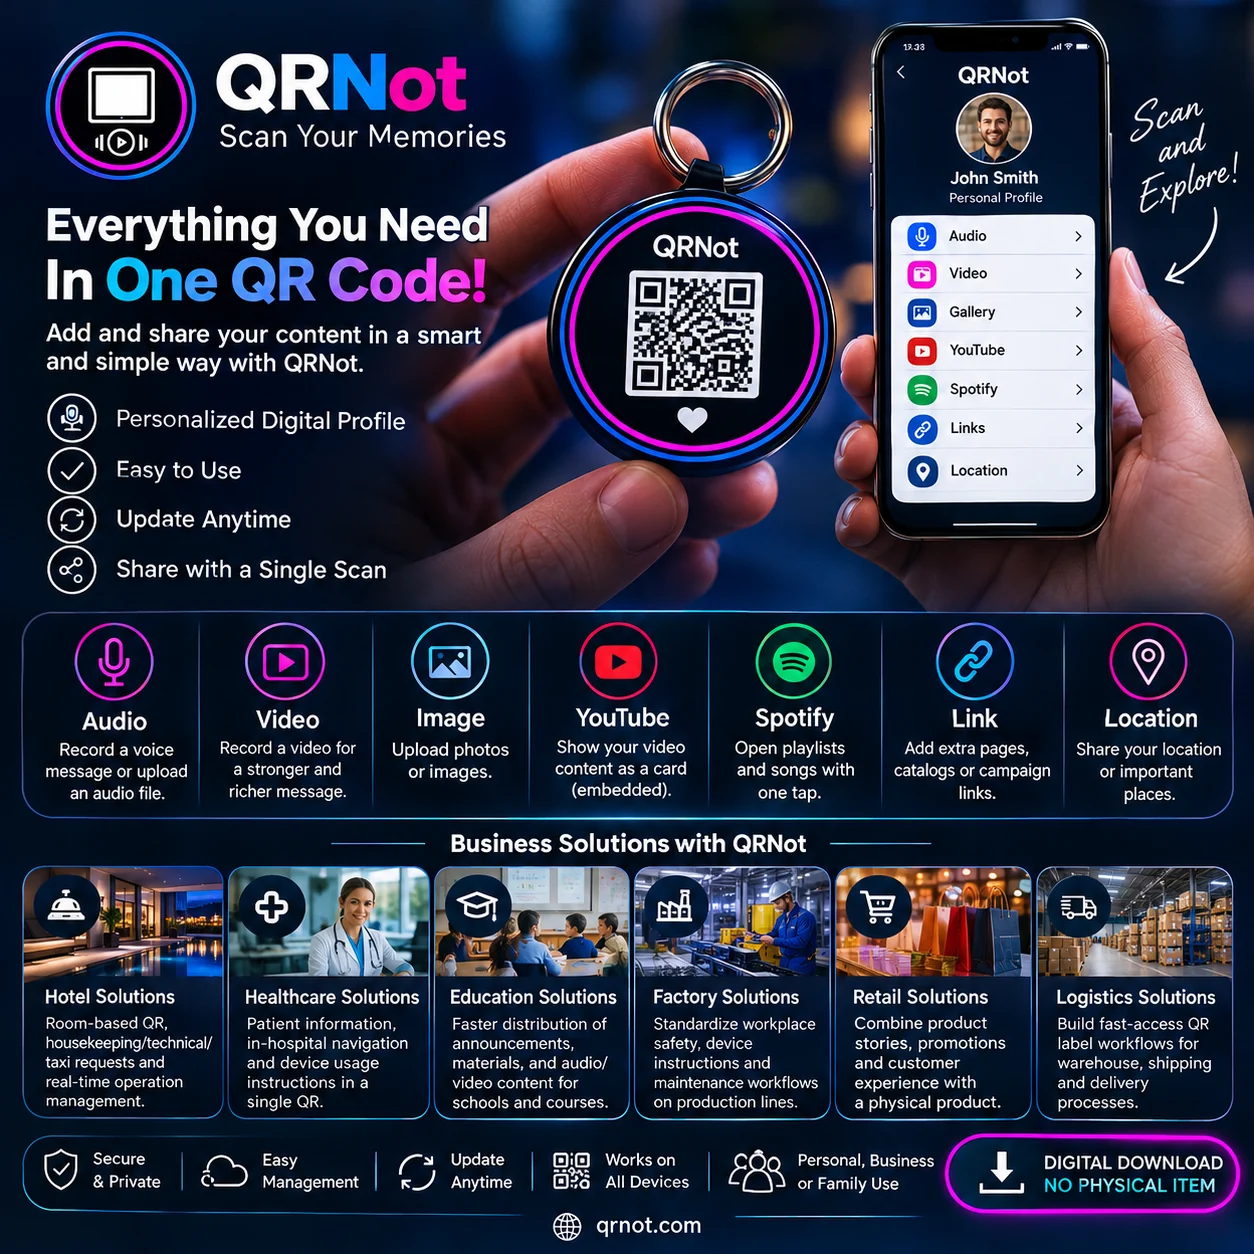
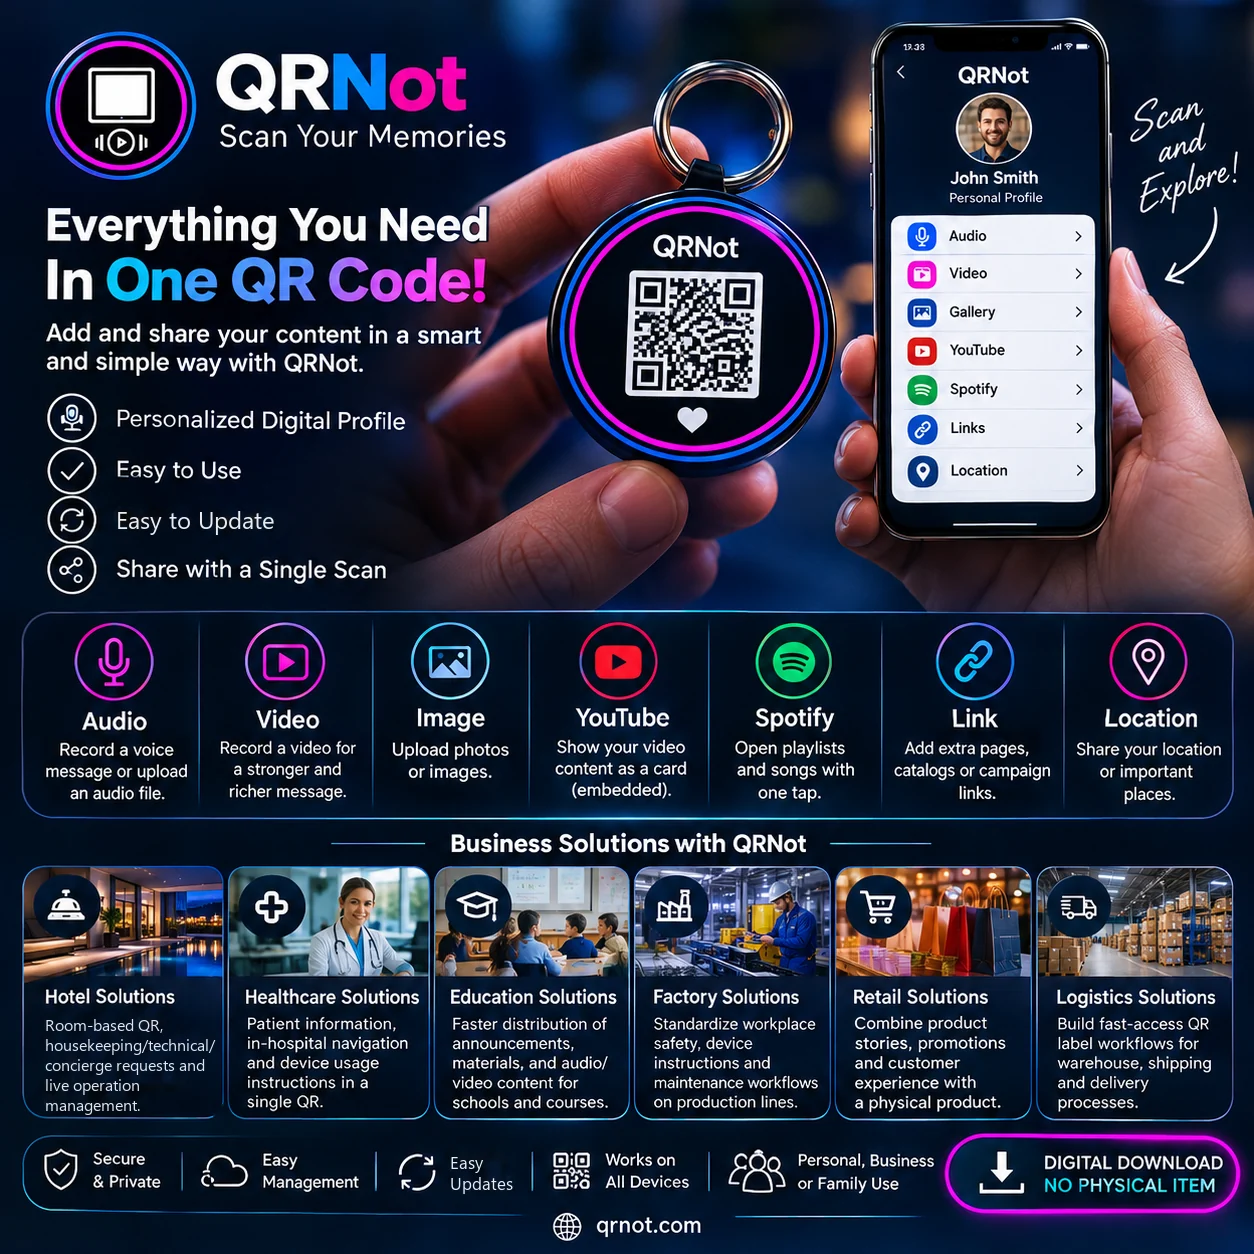
Katalog gorsellerindeki iddialar sistemle uyumlu hale getirildi
- Sinirsiz kayit / omur boyu / suya dayanikli / kan grubu / canli konum / taksi / update anytime ifadeleri duzeltildi
- fix_claims.py: orijinallerden tekrar uretilebilir duzeltme (inpaint + yeni metin)

Changed region(s): [[0.0311, 0.8086, 0.1866, 0.9019], [0.0933, 0.4043, 0.2488, 0.4354], [0.3421, 0.9019, 0.4043, 0.9641]]

diff --git a/deliverables/katalog-gorselleri/fix_claims.py b/deliverables/katalog-gorselleri/fix_claims.py
@@ -1,0 +1,206 @@
+"""Katalog görsellerindeki iddiaları QRNot'un gerçek özelliklerine göre düzeltir.
+
+Kullanım:  python deliverables/katalog-gorselleri/fix_claims.py [dosya-adı-parçası]
+Girdi:     deliverables/katalog-gorselleri/orijinal/*
+Çıktı:     public/katalog/*.webp  (sitedeki katalog bu dosyaları kullanır)
+           deliverables/katalog-gorselleri/duzeltilmis/*.png  (kontrol için tam kalite)
+
+Yöntem: düzeltilecek yazının bulunduğu kutuda parlak (yazı) pikselleri maskelenir, OpenCV inpaint ile arka plan
+çevresinden doldurulur, ardından doğru metin benzer yazı tipiyle aynı yere yazılır.
+"""
+
+import os
+import sys
+
+import cv2
+import numpy as np
+from PIL import Image, ImageDraw, ImageFont
+
+HERE = os.path.dirname(os.path.abspath(__file__))
+ROOT = os.path.abspath(os.path.join(HERE, '..', '..'))
+SRC = os.path.join(HERE, 'orijinal')
+OUT_PNG = os.path.join(HERE, 'duzeltilmis')
+OUT_WEB = os.path.join(ROOT, 'public', 'katalog')
+
+FONT_DIR = 'C:/Windows/Fonts'
+FONTS = {
+    'regular': os.path.join(FONT_DIR, 'segoeui.ttf'),
+    'semibold': os.path.join(FONT_DIR, 'seguisb.ttf'),
+    'bold': os.path.join(FONT_DIR, 'segoeuib.ttf'),
+    # Dar, kalın başlıklar (İngilizce altın temalı görsel) için Bahnschrift varyantı
+    'condensed': (os.path.join(FONT_DIR, 'bahnschrift.ttf'), 'SemiBold SemiCondensed'),
+}
+
+WHITE = (240, 240, 248)
+GRAY = (205, 205, 220)
+EN = (226, 228, 236)
+
+
+def L(text, size, weight='regular', color=GRAY, spacing=0):
+    """Tek satır metin tanımı."""
+    return {'text': text, 'size': size, 'weight': weight, 'color': color, 'spacing': spacing}
+
+
+def erase(img_bgr, box, thresh=110, dilate=3):
+    x0, y0, x1, y1 = box
+    region = img_bgr[y0:y1, x0:x1]
+    bright = region.max(axis=2) > thresh
+    mask = np.zeros(img_bgr.shape[:2], np.uint8)
+    mask[y0:y1, x0:x1][bright] = 255
+    if dilate:
+        mask = cv2.dilate(mask, np.ones((dilate, dilate), np.uint8), iterations=2)
+    return cv2.inpaint(img_bgr, mask, 5, cv2.INPAINT_TELEA)
+
+
+def draw_lines(pil_img, box, lines, align='left', line_gap=1.28, valign='top'):
+    draw = ImageDraw.Draw(pil_img)
+    x0, y0, x1, y1 = box
+    heights = [int(l['size'] * line_gap) for l in lines]
+    total = sum(heights)
+    y = y0 if valign == 'top' else y0 + ((y1 - y0) - total) // 2
+    for line, h in zip(lines, heights):
+        spec = FONTS[line['weight']]
+        if isinstance(spec, tuple):
+            font = ImageFont.truetype(spec[0], line['size'])
+            font.set_variation_by_name(spec[1])
+        else:
+            font = ImageFont.truetype(spec, line['size'])
+        text = line['text']
+        if line['spacing']:
+            # harf aralığı (büyük harf başlıklar için)
+            width = sum(draw.textlength(ch, font=font) + line['spacing'] for ch in text) - line['spacing']
+        else:
+            width = draw.textlength(text, font=font)
+        if align == 'center':
+            x = x0 + ((x1 - x0) - width) / 2
+        elif align == 'right':
+            x = x1 - width
+        else:
+            x = x0
+        if line['spacing']:
+            for ch in text:
+                draw.text((x, y), ch, font=font, fill=line['color'])
+                x += draw.textlength(ch, font=font) + line['spacing']
+        else:
+            draw.text((x, y), text, font=font, fill=line['color'])
+        y += h
+
+
+def apply(name, patches):
+    path = os.path.join(SRC, name)
+    # cv2.imread Türkçe karakterli yolları okuyamaz; PIL ile açıp BGR'ye çevir
+    img = cv2.cvtColor(np.array(Image.open(path).convert('RGB')), cv2.COLOR_RGB2BGR)
+    for p in patches:
+        img = erase(img, p['erase'], p.get('thresh', 110), p.get('dilate', 3))
+    pil = Image.fromarray(cv2.cvtColor(img, cv2.COLOR_BGR2RGB))
+    for p in patches:
+        if p.get('lines'):
+            draw_lines(pil, p.get('text_box', p['erase']), p['lines'], p.get('align', 'left'), p.get('line_gap', 1.28), p.get('valign', 'top'))
+    base = os.path.splitext(name)[0]
+    os.makedirs(OUT_PNG, exist_ok=True)
+    os.makedirs(OUT_WEB, exist_ok=True)
+    pil.save(os.path.join(OUT_PNG, base + '.png'))
+    pil.save(os.path.join(OUT_WEB, base + '.webp'), 'WEBP', quality=86, method=6)
+    print('ok', base)
+
+
+# ------------------------------------------------------------------------------------------------
+# Düzeltmeler — her biri: hangi iddia neden değişti
+# ------------------------------------------------------------------------------------------------
+PATCHES = {
+    'neon-anahtarlik-tr.jpg': [
+        # "Ömür boyu aktif" → böyle bir taahhüt yok. ∞ ikonu "QR hiç değişmez" anlamıyla korunur.
+        {
+            'erase': (212, 733, 368, 802),
+            'text_box': (212, 740, 368, 808),
+            'align': 'center',
+            'lines': [L('QR HİÇ DEĞİŞMEZ', 15, 'semibold', WHITE), L('İçeriğini güncelle,', 13, color=GRAY), L('QR aynı kalır.', 13, color=GRAY)],
+            'line_gap': 1.45,
+        },
+        # "Dayanıklı malzeme / suya ve darbelere dayanıklı" → test edilmiş iddia değil. Damla ikonu = epoksi damla baskı.
+        {
+            'erase': (688, 733, 852, 802),
+            'text_box': (688, 740, 852, 808),
+            'align': 'center',
+            'lines': [L('DAMLA BASKI', 15, 'semibold', WHITE), L('Parlak, kabarık epoksi', 13, color=GRAY), L('neon yüzey.', 13, color=GRAY)],
+            'line_gap': 1.45,
+        },
+        # "Konumunuzu paylaşın" → canlı konum yok; girilen adres haritada açılır.
+        {
+            'erase': (968, 585, 1240, 632),
+            'lines': [L('Adresinizi ekleyin, haritada', 14.5, color=GRAY), L('tek dokunuşla açılsın.', 14.5, color=GRAY)],
+            'line_gap': 1.5,
+        },
+        # "Kan grubu, alerji…" → acil durum alanı telefon ve adres alır.
+        {
+            'erase': (968, 673, 1240, 720),
+            'lines': [L('Telefon ve adresinizi ekleyin;', 14.5, color=GRAY), L('bulan kişi tek dokunuşla arasın.', 14.5, color=GRAY)],
+            'line_gap': 1.5,
+        },
+    ],
+    'neon-anahtarlik-sticker.jpg': [
+        # İkon satırı: "Suya dayanıklı" (test edilmiş iddia değil) → damla ikonu = neon damla baskı
+        {'erase': (392, 396, 512, 434), 'text_box': (392, 398, 502, 434), 'align': 'center', 'line_gap': 1.4,
+         'lines': [L('NEON DAMLA', 13.5, 'regular', GRAY, 1.2), L('BASKI', 13.5, 'regular', GRAY, 1.2)]},
+        # "Dilediğin kadar mesaj" → 3 içerik kaydı dahil; ∞ ikonu = QR hiç değişmez
+        {'erase': (526, 396, 672, 434), 'text_box': (526, 398, 672, 434), 'align': 'center', 'line_gap': 1.4,
+         'lines': [L('QR HİÇ', 13.5, 'regular', GRAY, 1.2), L('DEĞİŞMEZ', 13.5, 'regular', GRAY, 1.2)]},
+        # "Çantanı bulan sana mesaj bıraksın" → bulan kişinin mesaj bırakma özelliği yok; "Ara" butonu var
+        {'erase': (696, 774, 872, 830), 'text_box': (692, 778, 884, 830), 'align': 'center', 'line_gap': 1.45,
+         'lines': [L('Çantanı bulan kişi', 14.5, color=WHITE), L('seni tek dokunuşla arasın.', 14.5, color=WHITE)]},
+        # "Mesajların sana özel" → QR'ı okutan herkes içeriği görür
+        {'erase': (94, 906, 282, 962), 'text_box': (97, 912, 282, 962), 'line_gap': 1.45,
+         'lines': [L('Verilerin güvende,', 15.5, color=GRAY), L('QR’ın senin hesabında.', 15.5, color=GRAY)]},
+        # "Sınırsız kayıt / dilediğin kadar mesaj" → 3 içerik kaydı dahil
+        {'erase': (960, 880, 1146, 914), 'text_box': (965, 884, 1146, 914),
+         'lines': [L('QR HİÇ DEĞİŞMEZ', 16.5, 'semibold', WHITE, 0.6)]},
+        {'erase': (960, 912, 1146, 962), 'text_box': (965, 914, 1146, 962), 'line_gap': 1.45,
+         'lines': [L('Mesajını güncelle,', 15.5, color=GRAY), L('QR aynı kalır.', 15.5, color=GRAY)]},
+    ],
+    'neon-sticker-modelleri.jpg': [
+        # "Suya dayanıklı" → test edilmiş iddia değil; damla ikonu = neon damla baskı
+        {'erase': (1184, 408, 1350, 442), 'text_box': (1190, 413, 1350, 442),
+         'lines': [L('NEON DAMLA BASKI', 16, 'semibold', WHITE, 0.8)]},
+        # "Sınırsız kayıt / Dilediğin kadar mesaj" → 3 içerik kaydı dahil
+        {'erase': (1184, 682, 1354, 712), 'text_box': (1190, 686, 1354, 712),
+         'lines': [L('QR HİÇ DEĞİŞMEZ', 16, 'semibold', WHITE, 0.8)]},
+        {'erase': (1184, 712, 1354, 742), 'text_box': (1190, 714, 1354, 742),
+         'lines': [L('Mesajını güncelle', 14.5, color=GRAY)]},
+        # "Yapıştır, koruma al" → koruma garantisi gibi okunuyor; gerçek işlev: bulan kişi ulaşır
+        {'erase': (78, 1050, 250, 1082), 'text_box': (45, 1054, 280, 1082), 'align': 'center',
+         'lines': [L('Yapıştır, bulan sana ulaşsın', 16, color=WHITE)]},
+    ],
+    'neon-koleksiyon-en.png': [
+        # "Add your own private messages" → QR'ı okutan herkes içeriği görür
+        {'erase': (784, 848, 1004, 898), 'text_box': (784, 853, 1004, 898), 'align': 'center', 'line_gap': 1.35,
+         'lines': [L('Add a short note for', 17, color=(226, 226, 232)), L('whoever scans.', 17, color=(226, 226, 232))]},
+        # "Cloud backup" → bulutta saklama var, ayrı yedekleme taahhüdü yok
+        {'erase': (364, 1388, 442, 1434), 'text_box': (368, 1393, 442, 1434), 'line_gap': 1.3,
+         'lines': [L('CLOUD', 15.5, 'condensed', (240, 240, 244)), L('STORAGE', 15.5, 'condensed', (240, 240, 244))]},
+    ],
+    'dijital-profil-en.png': [
+        # "Share your real-time location" → canlı konum yok; girilen adres haritada açılır
+        {'erase': (17, 924, 152, 990), 'text_box': (22, 927, 152, 990), 'line_gap': 1.32,
+         'lines': [L('Share your address;', 15.5, color=EN), L('it opens in Maps', 15.5, color=EN), L('with one tap.', 15.5, color=EN)]},
+        # Otel: "taxi requests" → otel panelinde concierge talebi var, taksi yok
+        {'erase': (23, 1194, 174, 1283), 'text_box': (26, 1196, 174, 1283), 'line_gap': 1.3,
+         'lines': [L('Room-based QR,', 15, color=EN), L('housekeeping/technical/', 15, color=EN), L('concierge requests and', 15, color=EN), L('live operations.', 15, color=EN)]},
+    ],
+    'dijital-ozellikler-en.png': [
+        # "Update Anytime" → 3 içerik kaydı dahil; sınırsız güncelleme ima edilmesin
+        {'erase': (110, 502, 302, 537), 'text_box': (116, 503, 302, 537),
+         'lines': [L('Easy to Update', 23.5, color=(236, 236, 242))]},
+        {'erase': (446, 1148, 514, 1195), 'text_box': (450, 1150, 514, 1195), 'line_gap': 1.25,
+         'lines': [L('Easy', 17, color=(236, 236, 242)), L('Updates', 17, color=(236, 236, 242))]},
+        # Otel: "taxi requests" → concierge
+        {'erase': (42, 1012, 222, 1115), 'text_box': (45, 1013, 222, 1115), 'line_gap': 1.25,
+         'lines': [L('Room-based QR,', 16, color=EN), L('housekeeping/technical/', 16, color=EN), L('concierge requests and', 16, color=EN), L('live operation', 16, color=EN), L('management.', 16, color=EN)]},
+    ],
+}
+
+
+if __name__ == '__main__':
+    only = sys.argv[1] if len(sys.argv) > 1 else ''
+    for name, patches in PATCHES.items():
+        if only in name:
+            apply(name, patches)
